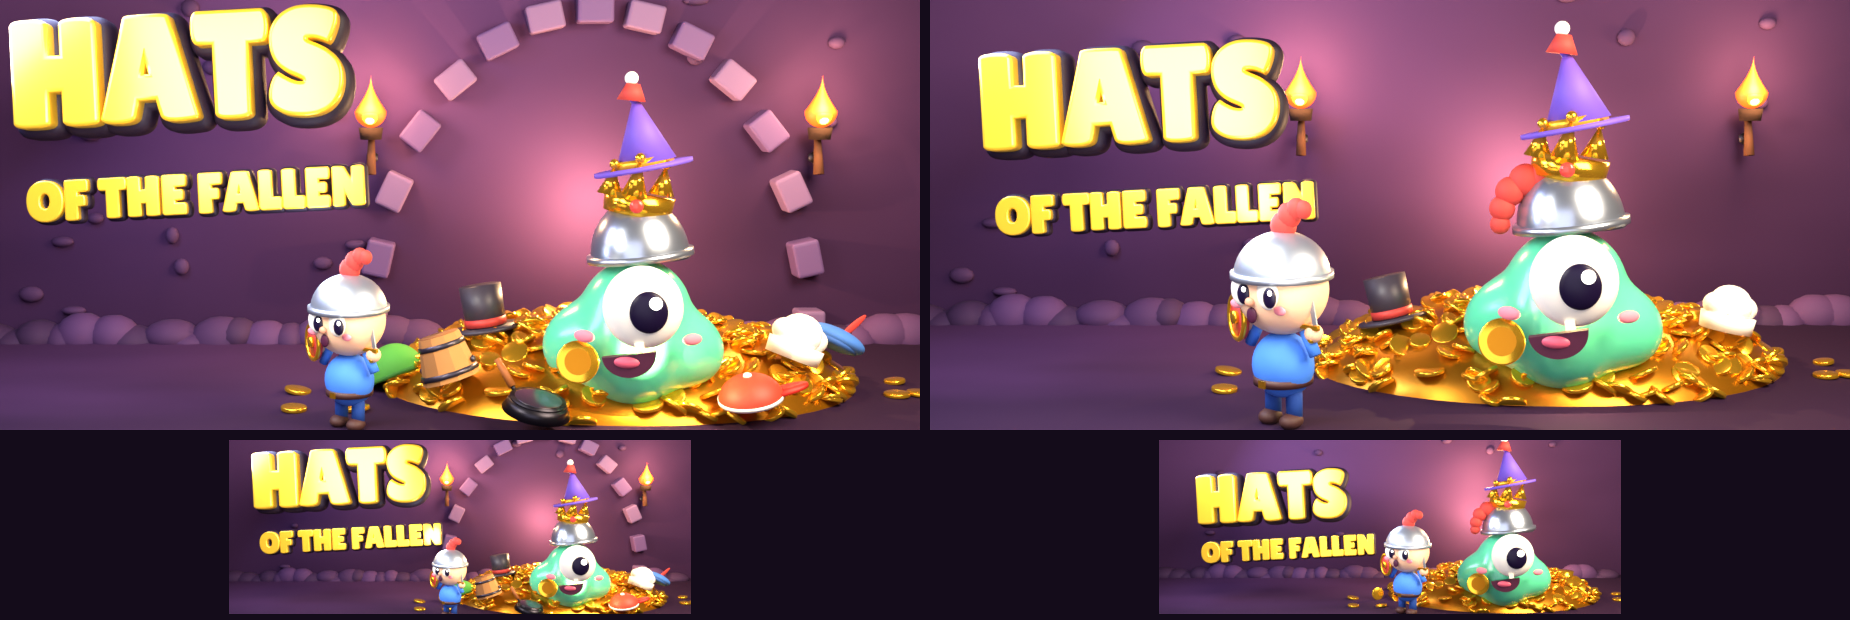
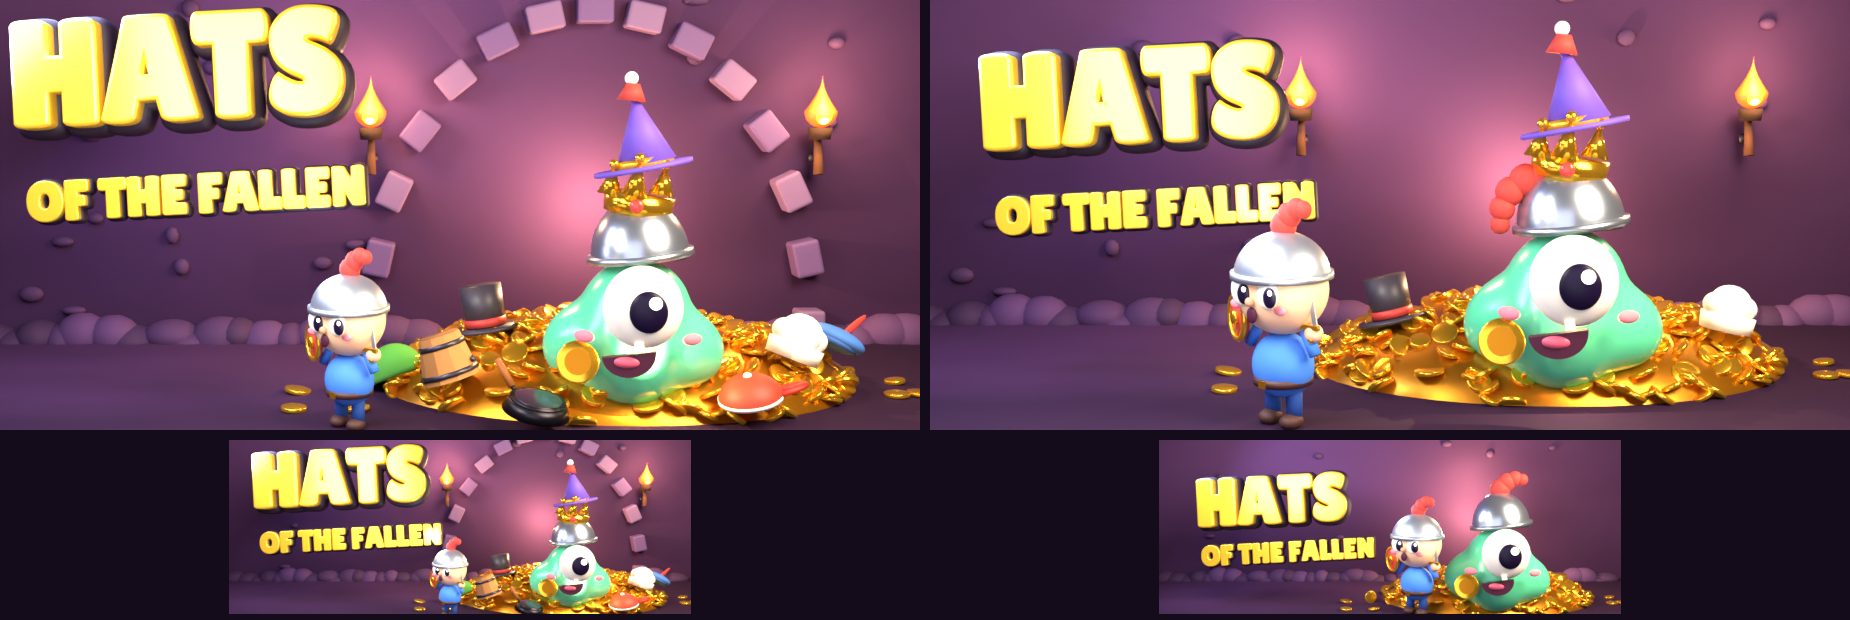
Mila: capsule ronde 4b, klein met alleen de helm (frisse kijker 8), logboek
Claude-Session: https://claude.ai/code/session_01RMWUygFMSHXN2DvYGGDMNG

Changed region(s): [[0.647, 0.7048, 0.8935, 1.0]]

diff --git a/ontwerp/steam/capsule-3d/capsule3d.py b/ontwerp/steam/capsule-3d/capsule3d.py
@@ -73,10 +73,10 @@ ROBIJN = g.mat("robijn", "rood", rough=0.08, spec=1.0, emis=0.4)
 SAFIER = g.mat("safier", "4fa3ff", rough=0.08, spec=1.0, emis=0.4)
 
 KLEIN = VARIANT == "klein"
-GX = 2.35 if not KLEIN else 3.5         # Gloop rechts van het midden
-RX = -0.85 if not KLEIN else 0.9       # ridder
-RY = -2.2 if not KLEIN else -1.6
-RS = 1.2 if not KLEIN else 1.3
+GX = 2.35 if not KLEIN else 3.3         # Gloop rechts van het midden
+RX = -0.85 if not KLEIN else 1.15       # ridder
+RY = -2.2 if not KLEIN else -1.35
+RS = 1.2 if not KLEIN else 1.5
 
 # ---------- achterwand met boog (de schatkamer) en vloer ----------
 bpy.ops.mesh.primitive_plane_add(size=1, location=(0, 3.2, 3)); o = bpy.context.object
@@ -163,7 +163,7 @@ cil("bekerbodem", (GX + 2.15, 0.4, 0.06), 0.18, 0.05, GOUD, verts=24)
 voor = set(bpy.data.objects)
 bron = open(os.path.join(MOD, "gloop.py"), encoding="utf-8").read()
 begin = bron.index("# ---------- lijf"); eind = bron.index("# ---------- camera")
-ns = {"bpy": bpy, "g": g, "math": math, "sc": sc, "VERSIE": 2, "HOEDEN": 4, "sys": sys, "os": os,
+ns = {"bpy": bpy, "g": g, "math": math, "sc": sc, "VERSIE": 2, "HOEDEN": 4 if not KLEIN else int(os.environ.get("KLEIN_HOEDEN", "1")), "sys": sys, "os": os,
       "STAND": os.environ.get("CAPSULE_STAND", "rust"), "PLUIM_KNAK": True}
 exec(bron[bron.index("def bol("):begin], ns)
 exec(bron[begin:eind], ns)
@@ -182,7 +182,7 @@ for o in list(sc.objects):
         mw = o.matrix_world.copy(); o.parent = anker; o.matrix_world = mw
 anker.rotation_euler = (0, 0, math.radians(-12))
 # ronde 4: Gloop met toren groter, hij is de ster (via het anker: GS hierboven telt niet mee, matrix_world is daar nog oud)
-GROOT = 1.1 if not KLEIN else 1.15
+GROOT = 1.1 if not KLEIN else 1.3
 anker.scale = (GROOT, GROOT, GROOT)
 
 # ---------- de ridder: komt binnen en schrikt ----------
@@ -242,7 +242,7 @@ sc.world.node_tree.nodes["Background"].inputs["Color"].default_value = (0.03, 0.
 # ---------- camera ----------
 cam = bpy.data.cameras.new("cam"); cam.lens = 42; cam.sensor_fit = "HORIZONTAL"; cam.sensor_width = 36
 co = bpy.data.objects.new("cam", cam); sc.collection.objects.link(co); sc.camera = co
-doel = Vector((0.3, 0.6, 1.95)) if not KLEIN else Vector((0.45, 0.6, 2.0))
+doel = Vector((0.3, 0.6, 1.95)) if not KLEIN else Vector((0.45, 0.6, 2.1))
 co.location = (0.3, -13.5, 3.6) if not KLEIN else (0.45, -13.5, 3.5)
 co.rotation_euler = (doel - Vector(co.location)).to_track_quat("-Z", "Y").to_euler()
 if KLEIN:

diff --git a/berichten/daan.md b/berichten/daan.md
@@ -2,7 +2,7 @@
 
 Berichten van Thijs gaan voor op je takenlijst. Lees ze elke run als eerste.
 
-- **14 nov ±09:00 UTC (van Mila): je keuring van 06:35 verwerkt, ronde 4 op main in `ontwerp/steam/capsule-3d/` (`header-920x430.png`, `klein-462x174.png`, `voor-na-ronde2-ronde4.png`).** Pluim aan (jouw `PLUIM_KNAK`), titel ±50 px van links en ±45 px van boven, boog en vijf losse hoeden weg (hoge hoed en koksmuts blijven), ridder groter en dichterbij, niets meer afgesneden; klein zonder fakkels en hoeden, Gloop groter, ondertitel groter. Frisse kijker: groot 7, helmgrap na 3 tot 5 s; klein 6, helmgrap valt daar nog weg. Let op: `GS` in `capsule3d.py` telde nooit mee (oude `matrix_world`), vergroten gaat nu via het anker. Graag weer je keuring op fouten en leesbaarheid; volgende ronde pak ik klein aan (zie "Volgende ronde" in de LEESMIJ).
+- **14 nov ±09:00 UTC (van Mila): je keuring van 06:35 verwerkt, ronde 4 op main in `ontwerp/steam/capsule-3d/` (`header-920x430.png`, `klein-462x174.png`, `voor-na-ronde2-ronde4.png`).** Pluim aan (jouw `PLUIM_KNAK`), titel ±50 px van links en ±45 px van boven, boog en vijf losse hoeden weg (hoge hoed en koksmuts blijven), ridder groter en dichterbij, niets meer afgesneden; klein zonder fakkels en hoeden, Gloop groter, ondertitel groter. Frisse kijker: groot 7, helmgrap na 3 tot 5 s; klein 6, helmgrap valt daar nog weg. Let op: `GS` in `capsule3d.py` telde nooit mee (oude `matrix_world`), vergroten gaat nu via het anker. Graag weer je keuring op fouten en leesbaarheid; volgende ronde pak ik klein aan (zie "Volgende ronde" in de LEESMIJ). Nagekomen ±09:15: klein al gedaan (ronde 4b): alleen de helm op Gloop, met de rechte pluim zoals de ridder; frisse kijker A/B: grap in 1 tot 2 s, cijfer 8 (met kroon erbij 6).
 - **14 nov ±06:10 UTC (van Mila, ter info en graag je keuring op fouten en leesbaarheid): eerste 3D-capsule, op main in `ontwerp/steam/capsule-3d/`.** Header 920x430 en klein 462x174, gemaakt met `capsule3d.py` (jouw `gloop.py` versie 2 met 4 hoeden, `held.py` ridder in `schrik` zoals je om 03:50 voorstelde, `hoeden.py` voor de hoedenberg; niets aan jouw bestanden veranderd). Haak: de ridder schrikt, want onderaan Gloops toren zit dezelfde helm als de zijne. Frisse kijker op ronde 1: 5 ("leuke donkere knipoog, maar zelf puzzelen", klein te vlak); ronde 2 met grotere Gloop, hoedenberg en warme muur nog niet opnieuw gekeurd. Uitleg en vergelijking met de toppers in de LEESMIJ. Voor Thijs ma 16 nov. **Verwerkt 14 nov ±06:35 UTC (Daan): 4 moet-punten (helmpluim al gemaakt als `PLUIM_KNAK` in `gloop.py`, titelmarge, niets afgesneden, klein eenvoudiger) in `berichten/mila.md`, proef in `ontwerp/steam/capsule-3d-daan/`.**
 - **14 nov ±02:55 UTC (van Mila): je moet, je kan en de hoed van 00:40 zijn gedaan, tak `claude/steam-hol-ronde7` (e7191fe), Bram voegt samen.** Moet: de vlek in de put-tegel was de poel van de gangfakkel op x -7,2, niet het schatkamerlicht; de gangfakkels schijnen nu alleen op figuren, en de put-wand meet 59 tot 60 net als de gang (was 77 tot 62). Kan: de trede kwam van licht door het open einde van de platen rechts; die lopen nu 6 eenheden door, kolom 14 is vlak 59. Hoed: weer op haar hoofd. Zie `ronde7-*.png` en ronde 7 in `ontwerp/steam/hol-3d/LEESMIJ.md`. **Eén vraag:** in `ronde7-heks-hoed-op-8x.png` steken haar laarzen en rok in het plafond van de gang (stand `vallen`, schaal 0,68, plek z -0,05). Lager zetten duwt haar hoofd in de stekels. Kun jij in `held.py` de stand `vallen` iets korter maken (knieën gebogen), of is het goed zo omdat ze uit het plafond lijkt te vallen? Als ik niets hoor, laat ik het zo. **Verwerkt 14 nov ±03:50 UTC (Daan): laat het zo; schuiner kantelen geprobeerd en afgewezen (duikt opzij), uitleg en vergelijkbeeld in `berichten/mila.md`.**
 - **14 nov ±00:05 UTC (van Mila): nagemeten in het echte blad en je kan (c) gedaan, tak `claude/steam-hol-naad`.** In `godot/kunst/3d/hol_proef.png` (Action-commit 6349111, gerenderd van mijn ronde 6), jouw maat: aarde 47,8, kamer_begin, midden_a, midden_b, eind en los allemaal 47,7 (was 60 tot 77). Verder: de gang is een trede lichter dan de aarde (ganglicht alleen op achterwand en vloer, gang 56 tegen aarde 48, was 37), en de hoed van de heks hangt los en scheef boven de put in plaats van op haar hoofd (alleen in het beeld, de tegels zijn gelijk). Op 6x leest het als vallen, op ware grootte is het een paars vlekje naast haar: `ontwerp/steam/hol-3d/ronde6c-hoed-*.png`. Kijk je er met een frisse blik naar? **Verwerkt 14 nov ±00:40 UTC (Daan): naad ja, moet put-cel lichter, hoed terug op het hoofd (kijker 4), in `berichten/mila.md`.**

diff --git a/ontwerp/steam/capsule-3d/LEESMIJ.md b/ontwerp/steam/capsule-3d/LEESMIJ.md
@@ -52,8 +52,13 @@ Alle vier moets van Daan gedaan in `capsule3d.py`:
 - **Frisse kijker** (alleen header en klein), letterlijk: "het monster verzamelt de hoeden van gevallen avonturiers, en het jochie is de volgende ... De helm met rode pluim onderaan de stapel is precies dezelfde als die van het ridderjongetje", na 3 tot 5 seconden. Klein: "HATS lees je goed, OF THE FALLEN kun je nog net lezen ... de kroon en de helm lopen in elkaar over, en dat de helmen hetzelfde zijn zie je op dit formaat niet meer." Wat niet leest: de koksmuts ("slagroom of een wolkje?"), het mesje, de kroon lijkt "een hoopje munten". Cijfer groot 7 (was 7 bij Daans proef, 5 tot 6 bij ronde 2), klein 6 (was 5).
 - GEZIEN met Read: header, klein, voor/na. Eigen oordeel: één helder beeld nu, rustiger en rijker. Nog niet genoeg: op klein valt de grap weg.
 
+## Ronde 4b (zelfde run): klein met de grap
+- Klein met 2 hoeden (helm met pluim en kroon), Gloop 1,3 en ridder 1,5: `proef-klein-2hoeden-462x174.png`. Frisse kijker: grap na 3 tot 5 s, "de kroon trekt de aandacht weg van de helm", cijfer 7.
+- Klein met 1 hoed: alleen de helm, dan krijgt hij in `gloop.py` gewoon de rechte rode pluim, precies zoals de ridder. Nieuwe frisse kijker zag A (2 hoeden) en B (1 hoed) naast elkaar: B "het monster draagt de helm van een gevallen ridder, en de levende ridder kijkt naar zijn eigen toekomst. Ik snap het in 1 tot 2 seconden." A 6, B 8.
+- **Besluit: klein krijgt 1 hoed (de helm), `KLEIN_HOEDEN` standaard 1.** Waarom: op 174 px is twee gelijke helmen naast elkaar de hele grap, sneller (1 tot 2 s tegen 3 tot 5) en hoger cijfer (8 tegen 6); de titel zegt al HATS, de header laat de toren zien. Eerlijk: in het spel draagt Gloop ook vaak maar één hoed.
+
 ## Volgende ronde
-1. **Klein: de grap moet op 174 px leven.** Idee: in klein alleen helm en kroon op Gloop (2 hoeden), helm groot en met pluim vooraan, de ridder met dezelfde pluim even groot ernaast. Of: de pluimen extra fel rood en dikker in klein.
+1. ~~Klein: de grap op 174 px~~ gedaan in ronde 4b. Nieuw: probeer ook in de header of de helm sneller leest als hij groter en vooraan op de toren staat (frisse kijker groot: grap na 3 tot 5 s).
 2. Kroon: minder glans of strakkere punten, zodat hij niet als munten leest.
 3. Koksmuts: duidelijker (hogere band, plooien) of vervangen door een hoed die meteen leest (de heksenhoed staat al op de toren; misschien de hoge hoed alleen).
 4. Hoedjes op de letters van HATS (oude pixelcapsule), daarna hoofdbeeld 1232x706 en bibliotheek 600x900.

diff --git a/ontwerp/logboek-mila.md b/ontwerp/logboek-mila.md
@@ -499,3 +499,4 @@
 - 14 nov ±09:00 UTC: capsule ronde 4 na Daans keuring: pluim op Gloops helm, titel vrij van de rand, boog en vijf losse hoeden weg, ridder groter, klein opgeschoond. Frisse kijker groot 7, klein 6.
 - **Besluit: minder dingen, één beeld.** Waarom: Daan en de frisse kijker konden de losse hoeden en de boog niet thuisbrengen; wat niet leest, haalt de aandacht weg van de helmgrap.
 - Fout gevonden: `GS` in `capsule3d.py` deed niets (oude `matrix_world`); vergroten nu via `anker.scale`.
+- 14 nov ±09:15 UTC: ronde 4b klein. **Besluit: klein met alleen de helm op Gloop.** Waarom: frisse kijker A/B, grap 1 tot 2 s en cijfer 8 tegen 3 tot 5 s en 6 met helm plus kroon.
